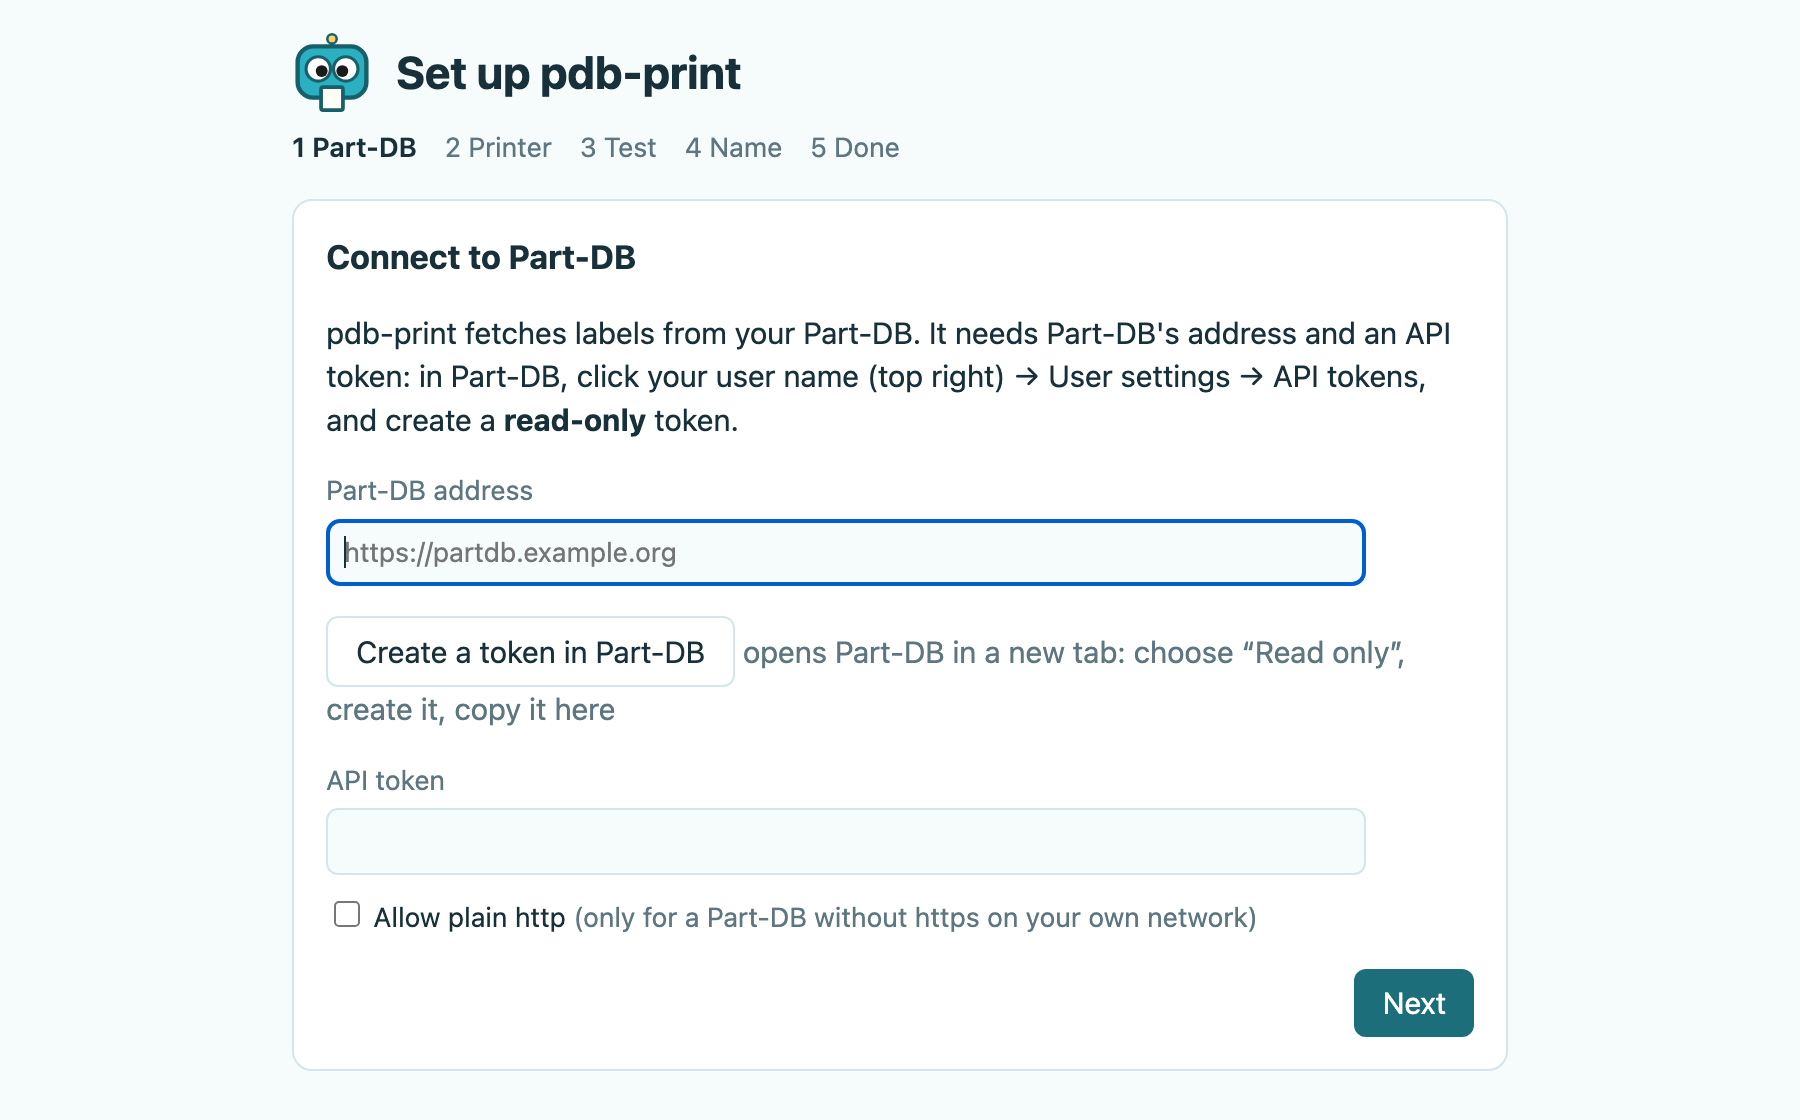
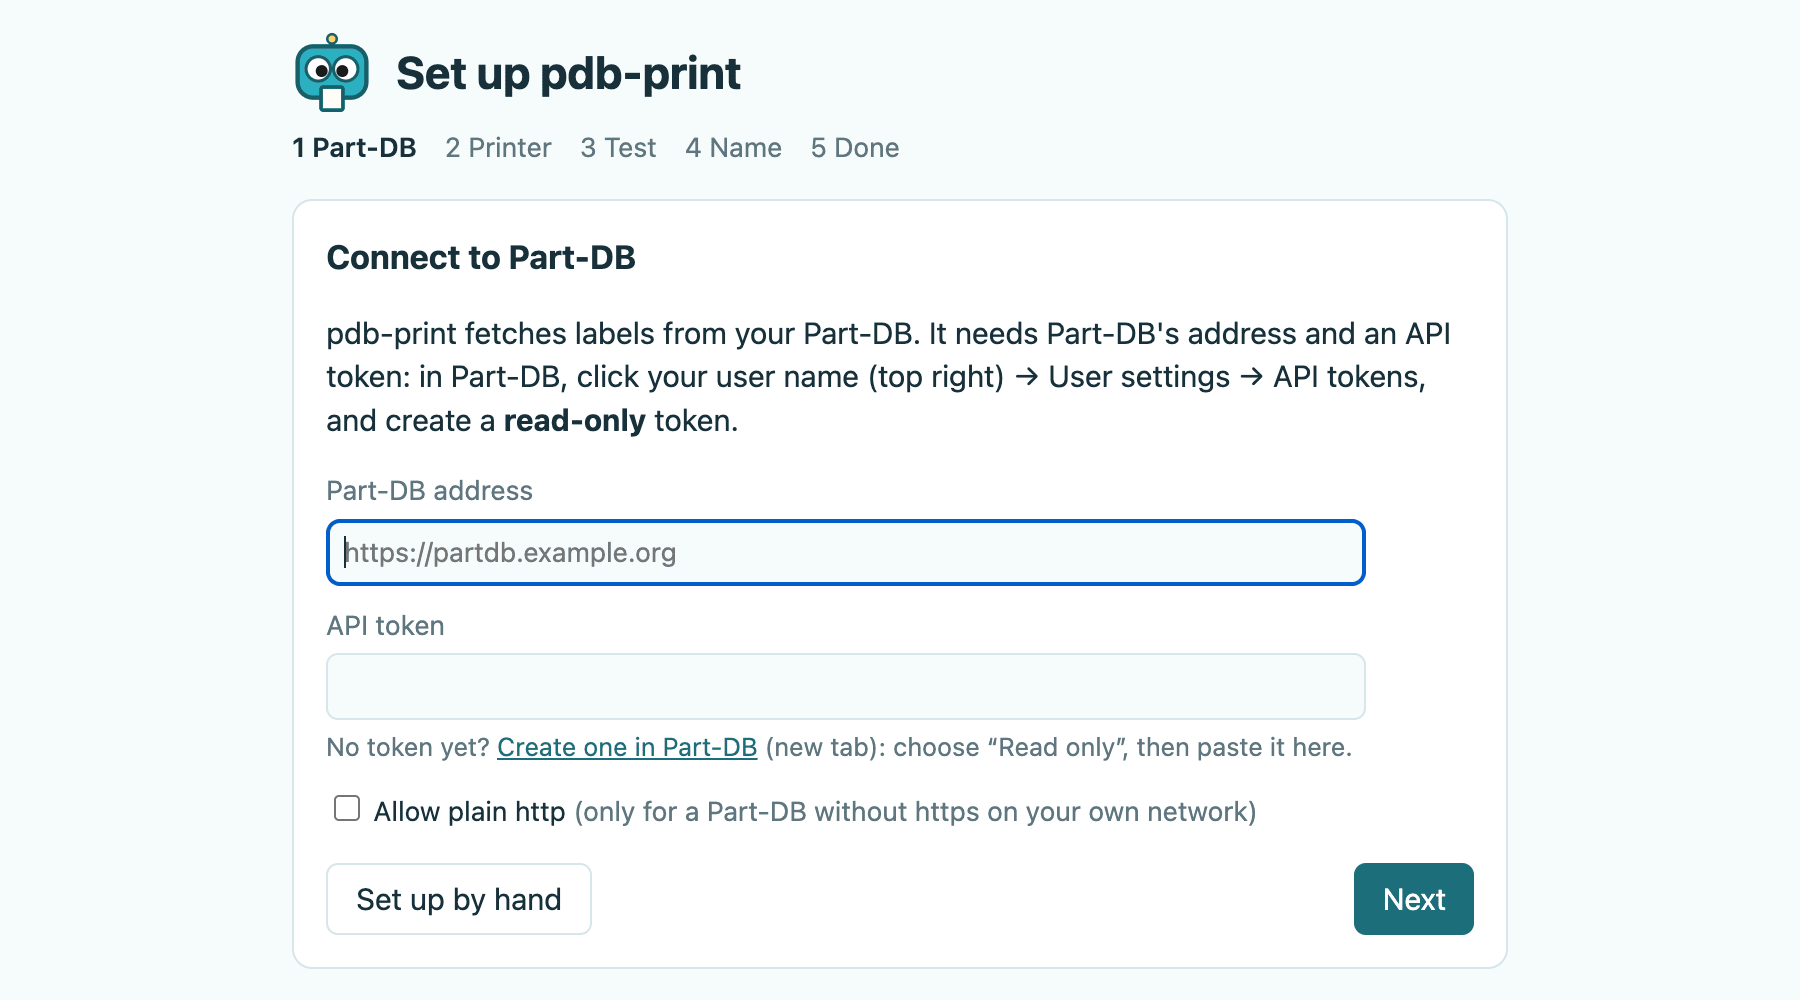
docs: refresh README screenshots; serial in the flow diagram (#59)
docs: refresh web UI and setup wizard screenshots; serial in the flow diagram

New screenshots of the 0.4.0 setup wizard and web UI (three printers, label
profiles with bookmarklets), taken against fake printers and a fake Part-DB.
The flow diagram and its alt text name serial connections like the tagline.

diff --git a/README.md b/README.md
@@ -20,7 +20,7 @@ It runs on Linux, macOS and Windows.
 4. **Print:** on a part or storage location in Part-DB, click the bookmarklet. The label comes out at the
    right size with sharp QR codes, no printer drivers involved.
 
-<p align="center"><img src="docs/images/flow.svg" width="880" alt="Part-DB sends a label PDF over HTTPS to pdb-print, which renders it at the print head's dots and sends it over the network, USB or Bluetooth to the label printer"></p>
+<p align="center"><img src="docs/images/flow.svg" width="880" alt="Part-DB sends a label PDF over HTTPS to pdb-print, which renders it at the print head's dots and sends it over the network, USB, serial or Bluetooth to the label printer"></p>
 
 ## How it works
 
@@ -200,7 +200,7 @@ out mirrored or upside down.
 
 ## Web UI and bookmarklet
 
-<p align="center"><img src="docs/images/web-ui.png" width="700" alt="The pdb-print web UI: the Part-DB connection and one Zebra GK420d printer with its media, status and a Test print button"></p>
+<p align="center"><img src="docs/images/web-ui.png" width="700" alt="The pdb-print web UI: Part-DB connected with a read-only token; three printers (a Brother QL-810W and a Zebra GK420d on the network, both OK with their media, and a Niimbot B21S on a serial port that is not plugged in), each with a Test print button; two label profiles mapped to printers, each with a bookmarklet to drag to the bookmarks bar"></p>
 
 In the web UI (`pdb-print serve`, `http://127.0.0.1:8631`): connect Part-DB, add printers, map label
 profiles to printers, then drag the generated bookmarklet to your bookmarks bar. On a part or
